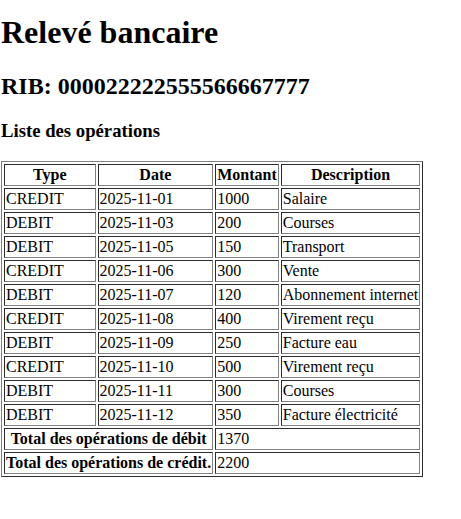
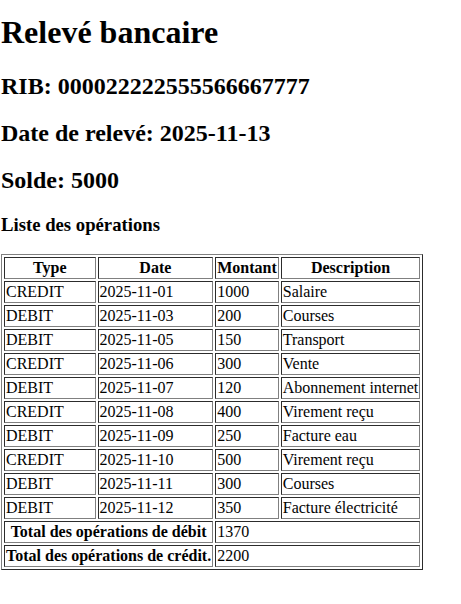
fix: Créer une feuille de style XSL qui permet d’afficher au format HTML les opérations de type CREDIT d’un relevé bancaire.

Changed region(s): [[0.0, 0.1233, 0.9111, 0.9557], [0.0, 0.0308, 0.4859, 0.0925]]

diff --git a/releve-q5.html b/releve-q5.html
@@ -1,0 +1,46 @@
+<!DOCTYPE HTML>
+<html>
+   <head>
+      <meta http-equiv="Content-Type" content="text/html; charset=UTF-8">
+      <title>opérations credit</title>
+   </head>
+   <body>
+      <h1>Opérations de type crédit</h1>
+      <h2>RIB: 000022222555566667777</h2>
+      <h2>Date de relevé: 2025-11-13</h2>
+      <h2>Solde: 5000</h2>
+      <h3>Liste de opération de CREDIT</h3>
+      <table border="1">
+         <tr>
+            <th>Type</th>
+            <th>Date</th>
+            <th>Montant</th>
+            <th>Description</th>
+         </tr>
+         <tr>
+            <td>CREDIT</td>
+            <td>2025-11-01</td>
+            <td>1000</td>
+            <td>Salaire</td>
+         </tr>
+         <tr>
+            <td>CREDIT</td>
+            <td>2025-11-06</td>
+            <td>300</td>
+            <td>Vente</td>
+         </tr>
+         <tr>
+            <td>CREDIT</td>
+            <td>2025-11-08</td>
+            <td>400</td>
+            <td>Virement reçu</td>
+         </tr>
+         <tr>
+            <td>CREDIT</td>
+            <td>2025-11-10</td>
+            <td>500</td>
+            <td>Virement reçu</td>
+         </tr>
+      </table>
+   </body>
+</html>

diff --git a/releve-q4.html b/releve-q4.html
@@ -7,6 +7,8 @@
    <body>
       <h1>Relevé bancaire</h1>
       <h2>RIB: 000022222555566667777</h2>
+      <h2>Date de relevé: 2025-11-13</h2>
+      <h2>Solde: 5000</h2>
       <h3>Liste des opérations</h3>
       <table border="1">
          <tr>

diff --git a/README.md b/README.md
@@ -19,3 +19,8 @@ exemple de document XML valide par ce DTD</h1>
 <h1>4. Créer une feuille de style XSL qui permet d’afficher les toutes les données de ce document XML au format HTML en affichant le total des opérations de débit et le total des opérations de crédit.</h1>
 
 <img src="./img/4.png" width="300">
+
+<h1>5. Créer une feuille de style XSL qui permet d’afficher au format HTML les opérations de type
+CREDIT d’un relevé bancaire.</h1>
+
+<img src="./img/5.png" width="300">
